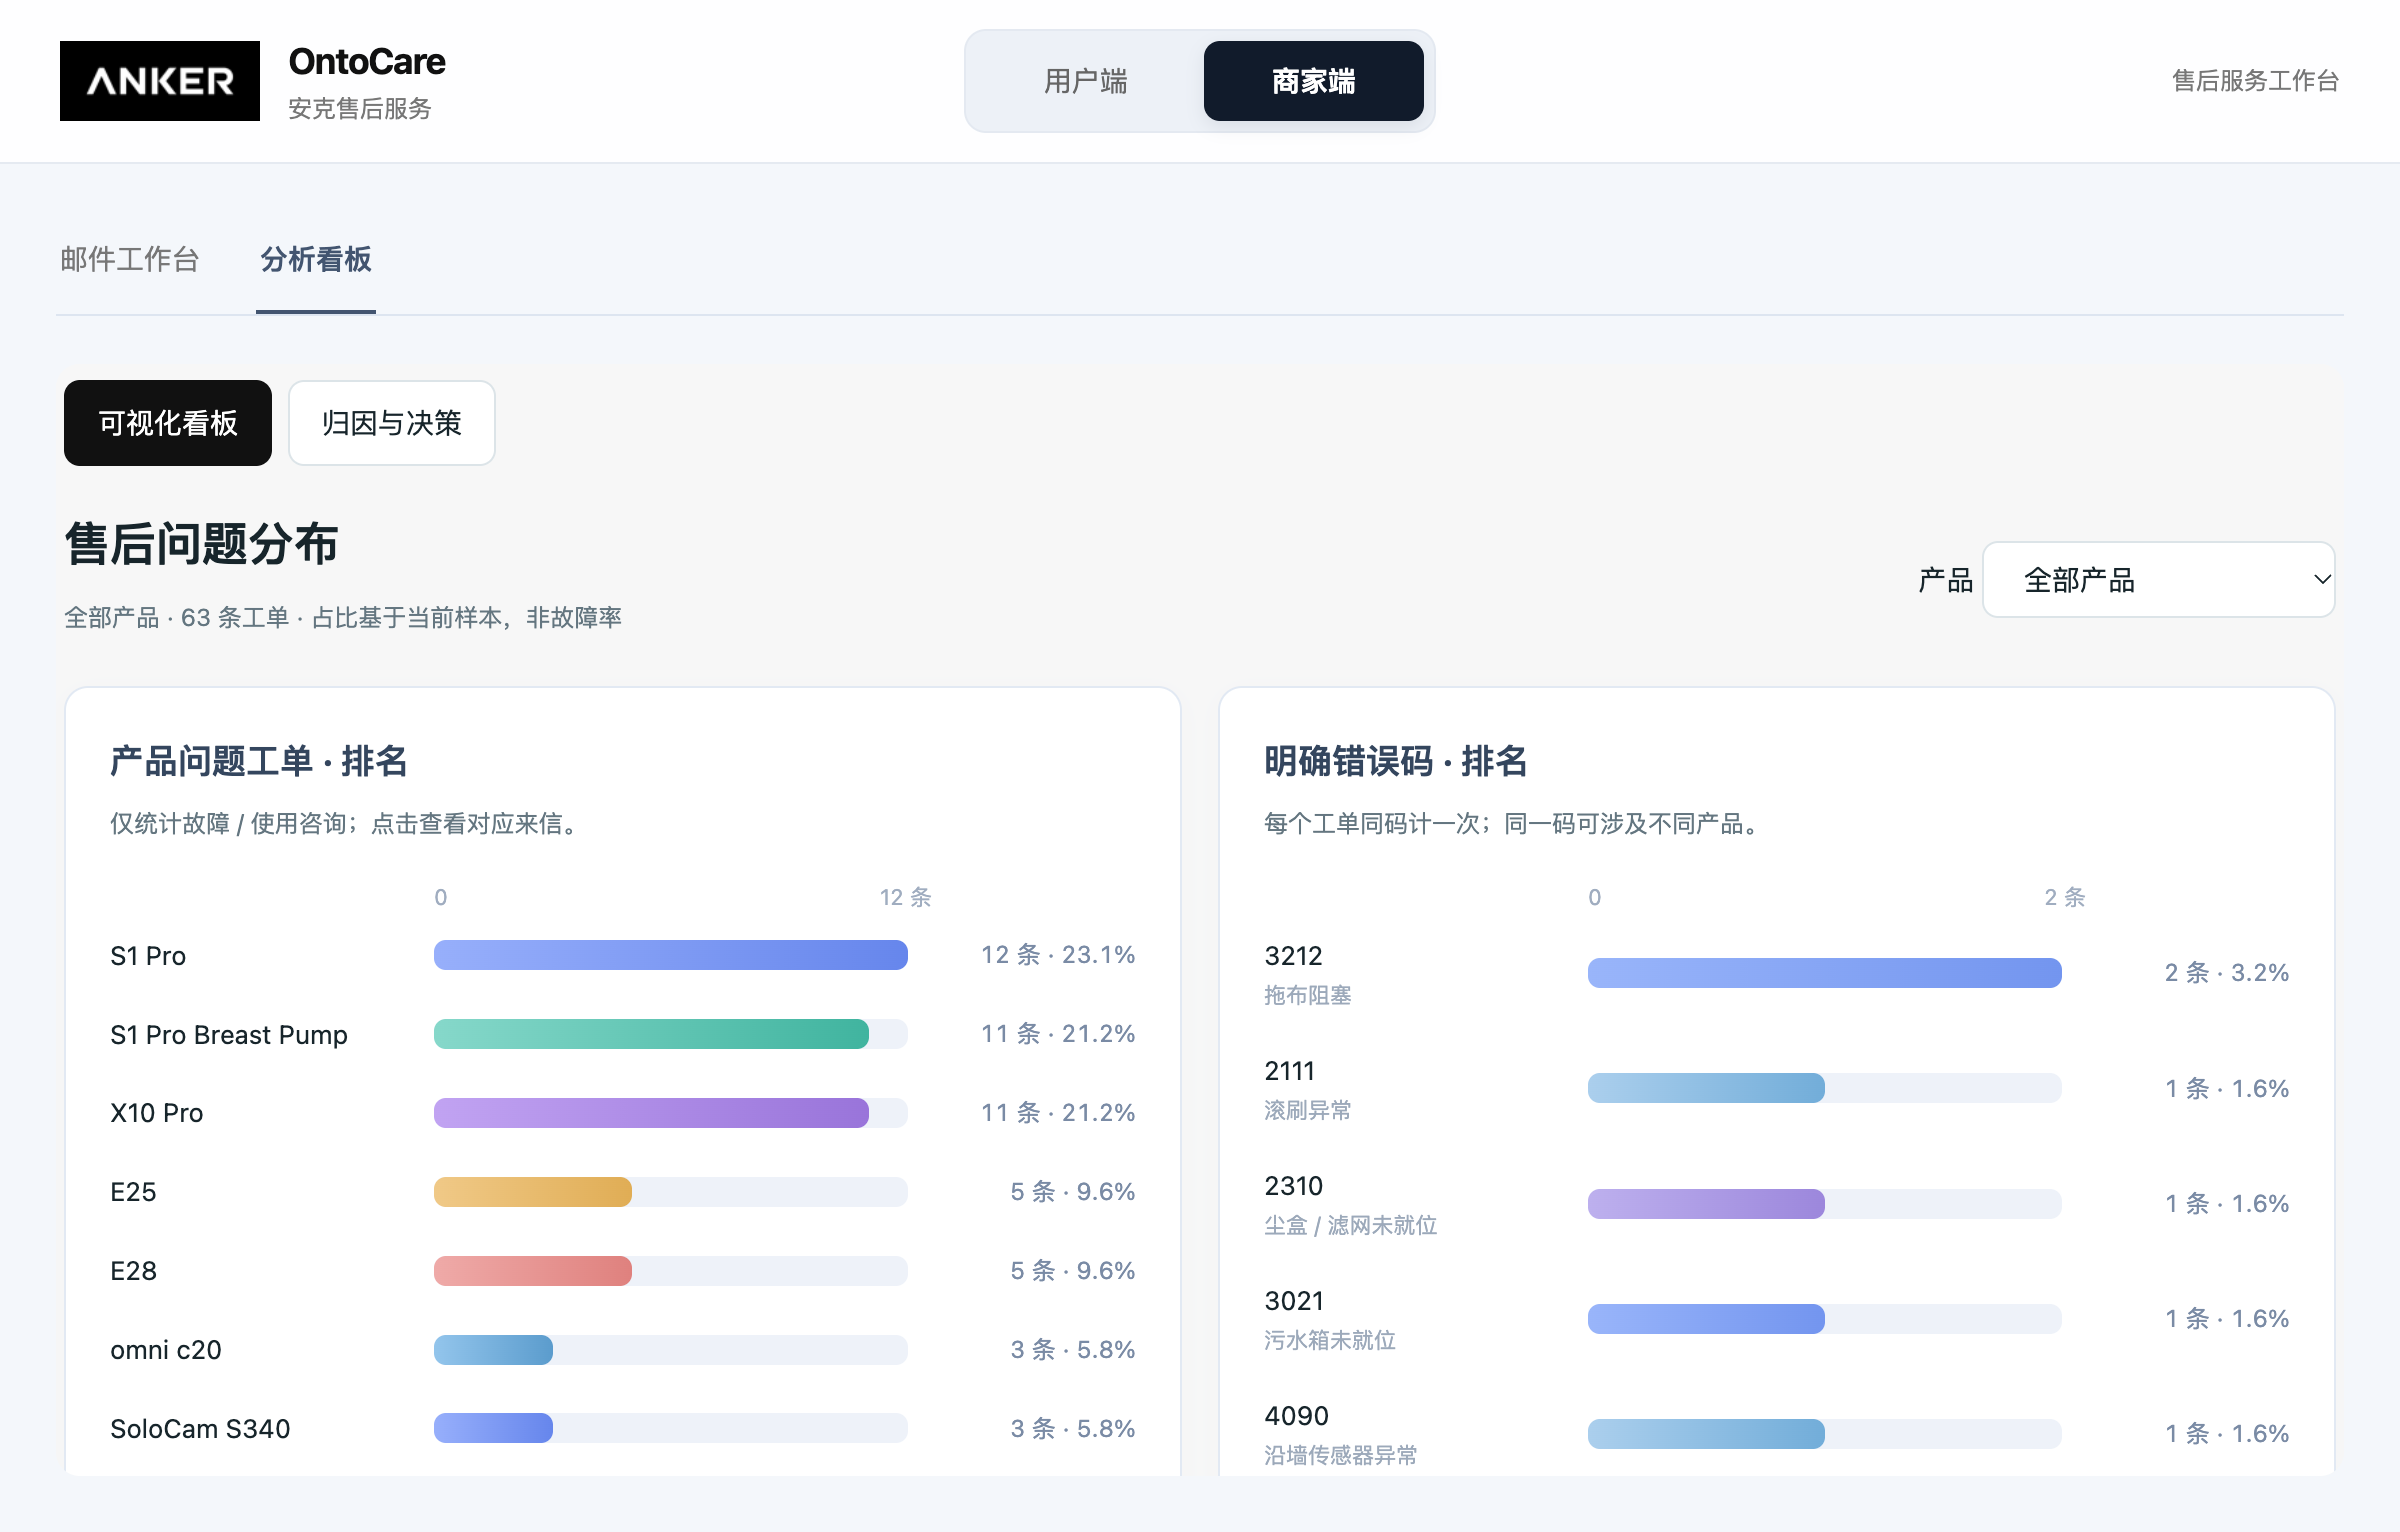
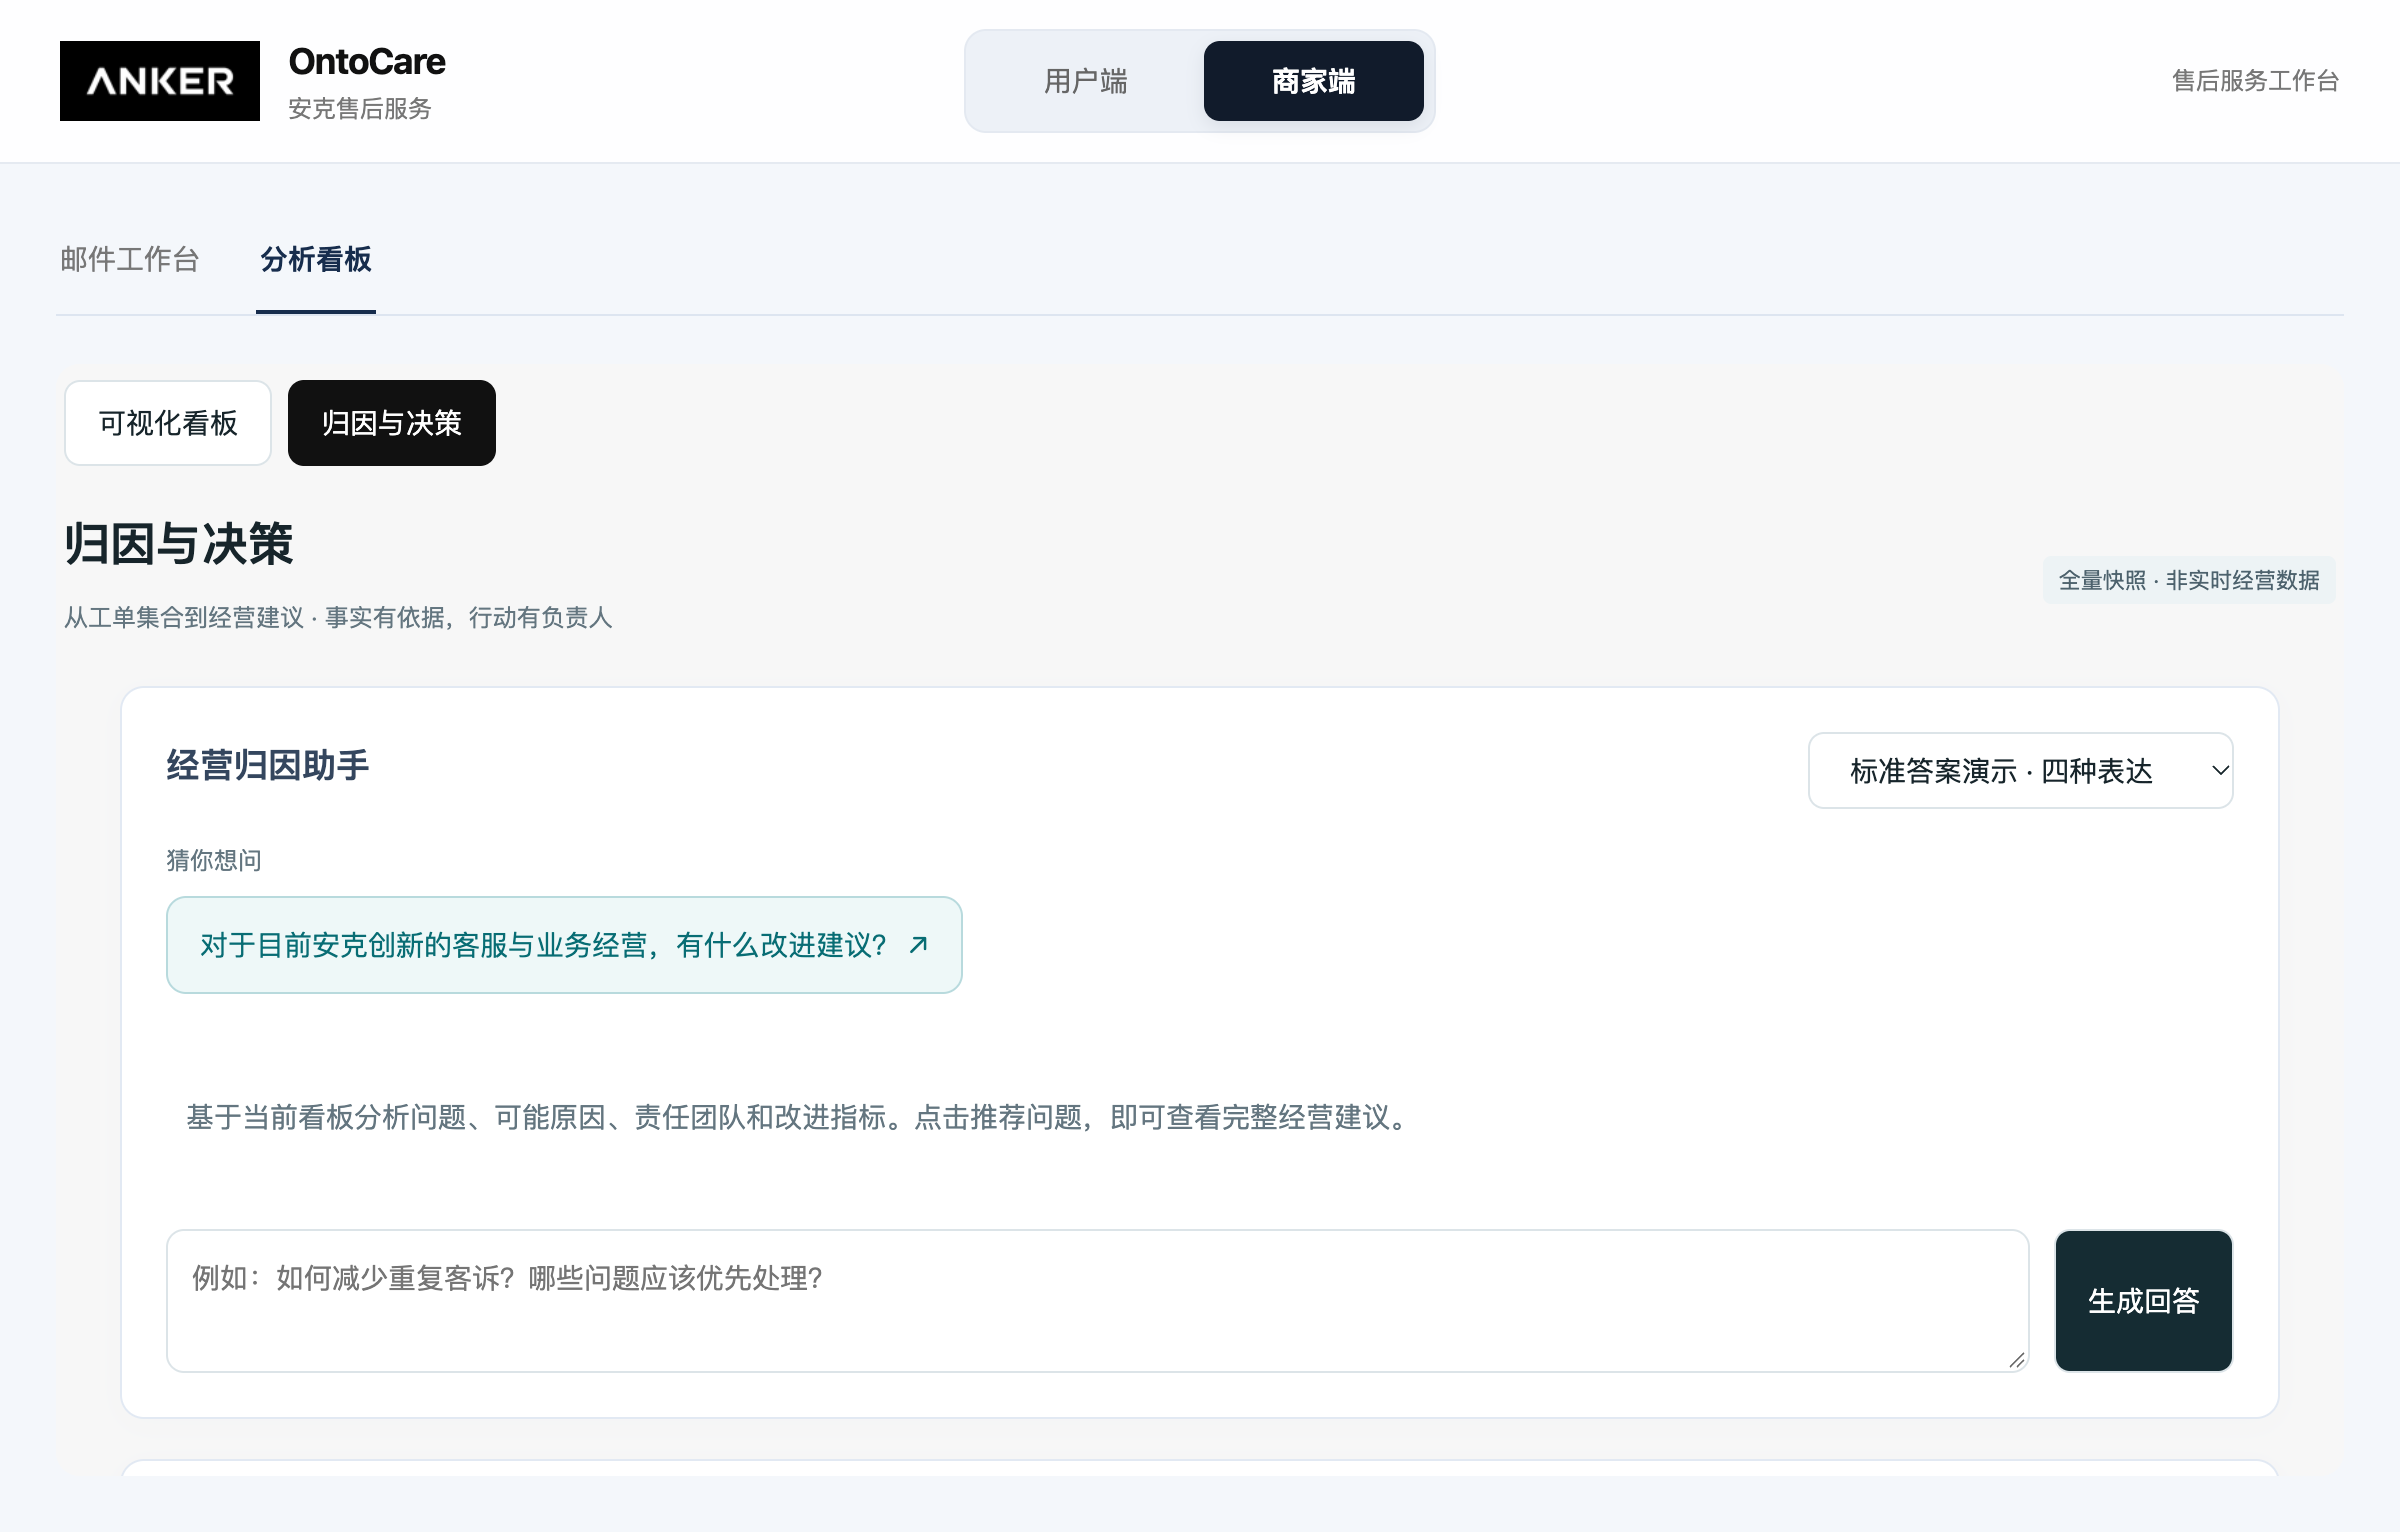
Replace attribution preview with live Railway screen

diff --git a/README.md b/README.md
@@ -86,7 +86,7 @@
 <details>
 <summary>查看经营归因截图</summary>
 
-![Railway 当前部署的商家端分析看板](OntoCare/reports/归因看板预览.png)
+[![Railway 当前部署的商家端经营归因页面](OntoCare/reports/归因看板预览.png)](https://web-production-195cd.up.railway.app/merchant#analytics)
 
 </details>
 
